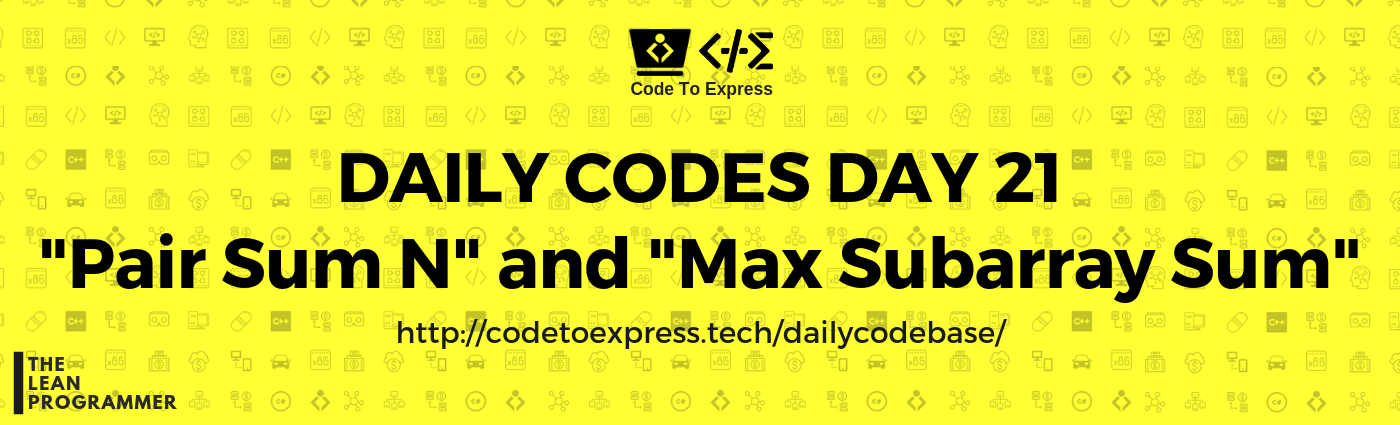
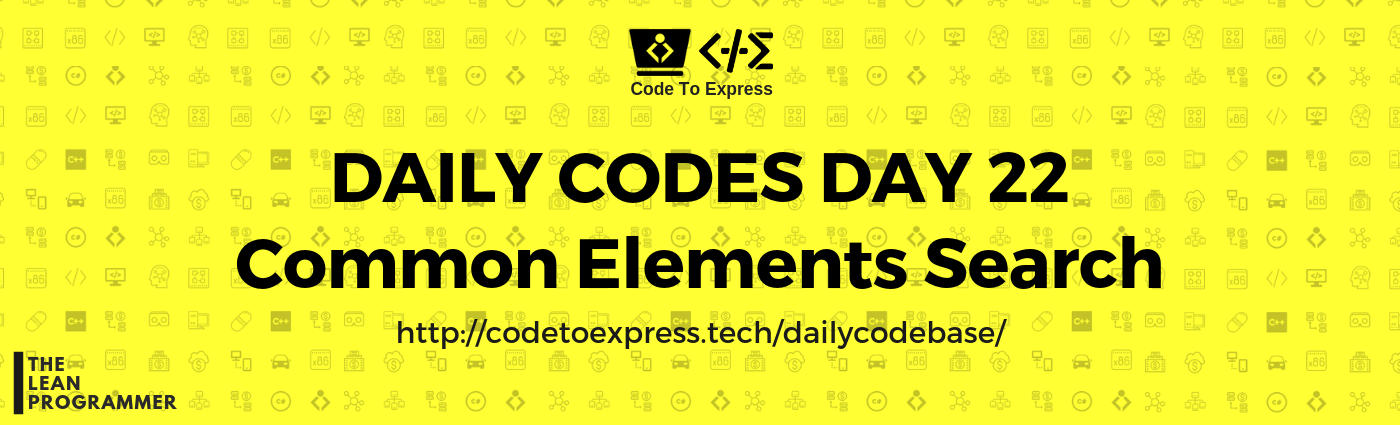
Add day22 cover

Changed region(s): [[0.0307, 0.5506, 0.9829, 0.7341], [0.215, 0.3365, 0.7679, 0.4894]]

diff --git a/day23/README.md b/day23/README.md
@@ -2,7 +2,7 @@
 
 # Day 23 - Array Series Part 6: Combination Sum
 
-**Question Source -- [Geeks4Geeks](https://www.geeksforgeeks.org/combinational-sum/)**
+**Question Credits -- [Geeks4Geeks](https://www.geeksforgeeks.org/combinational-sum/)**
 
 **Question** -- Given a set of integers, and a number, find all unique combinations in the integer array whose sum equals the given number.
 
